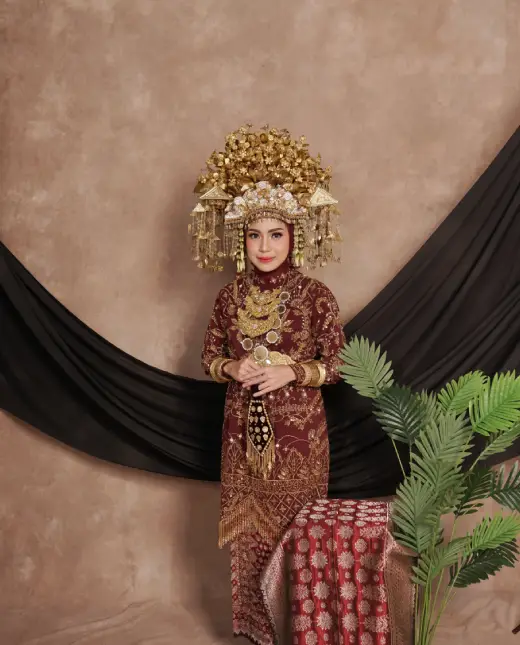
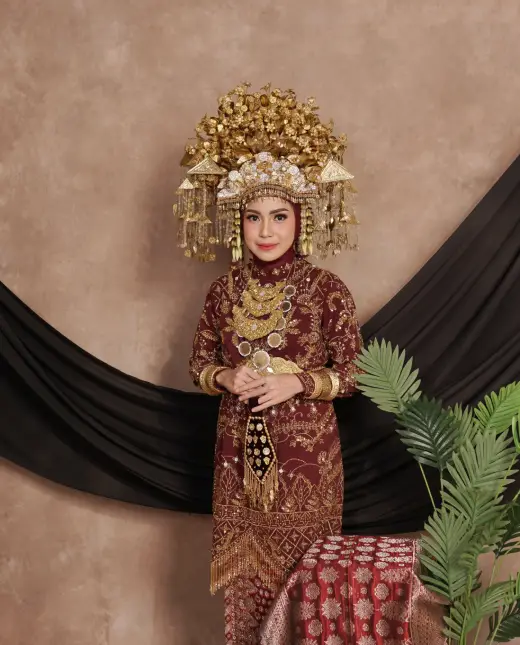
new

diff --git a/index.html b/index.html
@@ -20,22 +20,13 @@
     <meta http-equiv="Content-Security-Policy" content="upgrade-insecure-requests">
 
     <meta property="og:type" content="website">
-    <meta property="og:site_name" content="dummyaccount.viding.co">
-    <meta property="og:url" content="http://viding.co/theme/preview/149">
     <meta property="og:title" content="Welcome to the Wedding of Ikbal & Ikha  - 25 Juli 2026">
-    <meta property="og:description" content="Digital Invitation by Viding.co">
-    <meta property="og:image" content="images/jayzazWmjSYK.jpg">
+    <meta property="og:description" content="Digital Invitation by Berpesta.com">
     <meta property="og:locale" content="id_ID">
     <meta property="og:image:type" content="image/jpeg">
     <meta property="og:image:width" content="1200">
     <meta property="og:image:height" content="630">
     <meta property="og:image:alt" content="Welcome to the Wedding of Ikbal & Ikha  - 25 Juli 2026">
-
-    <meta property="ia:markup_url" content="http://viding.co/theme/preview/149">
-    <meta property="ia:markup_url_dev" content="http://viding.co/theme/preview/149">
-    <meta property="ia:rules_url" content="http://viding.co/theme/preview/149">
-    <meta property="ia:rules_url_dev" content="http://viding.co/theme/preview/149">
-    <meta property="fb:app_id" content="1673491666363514">
 
 
     <meta name="twitter:card" content="summary_large_image">